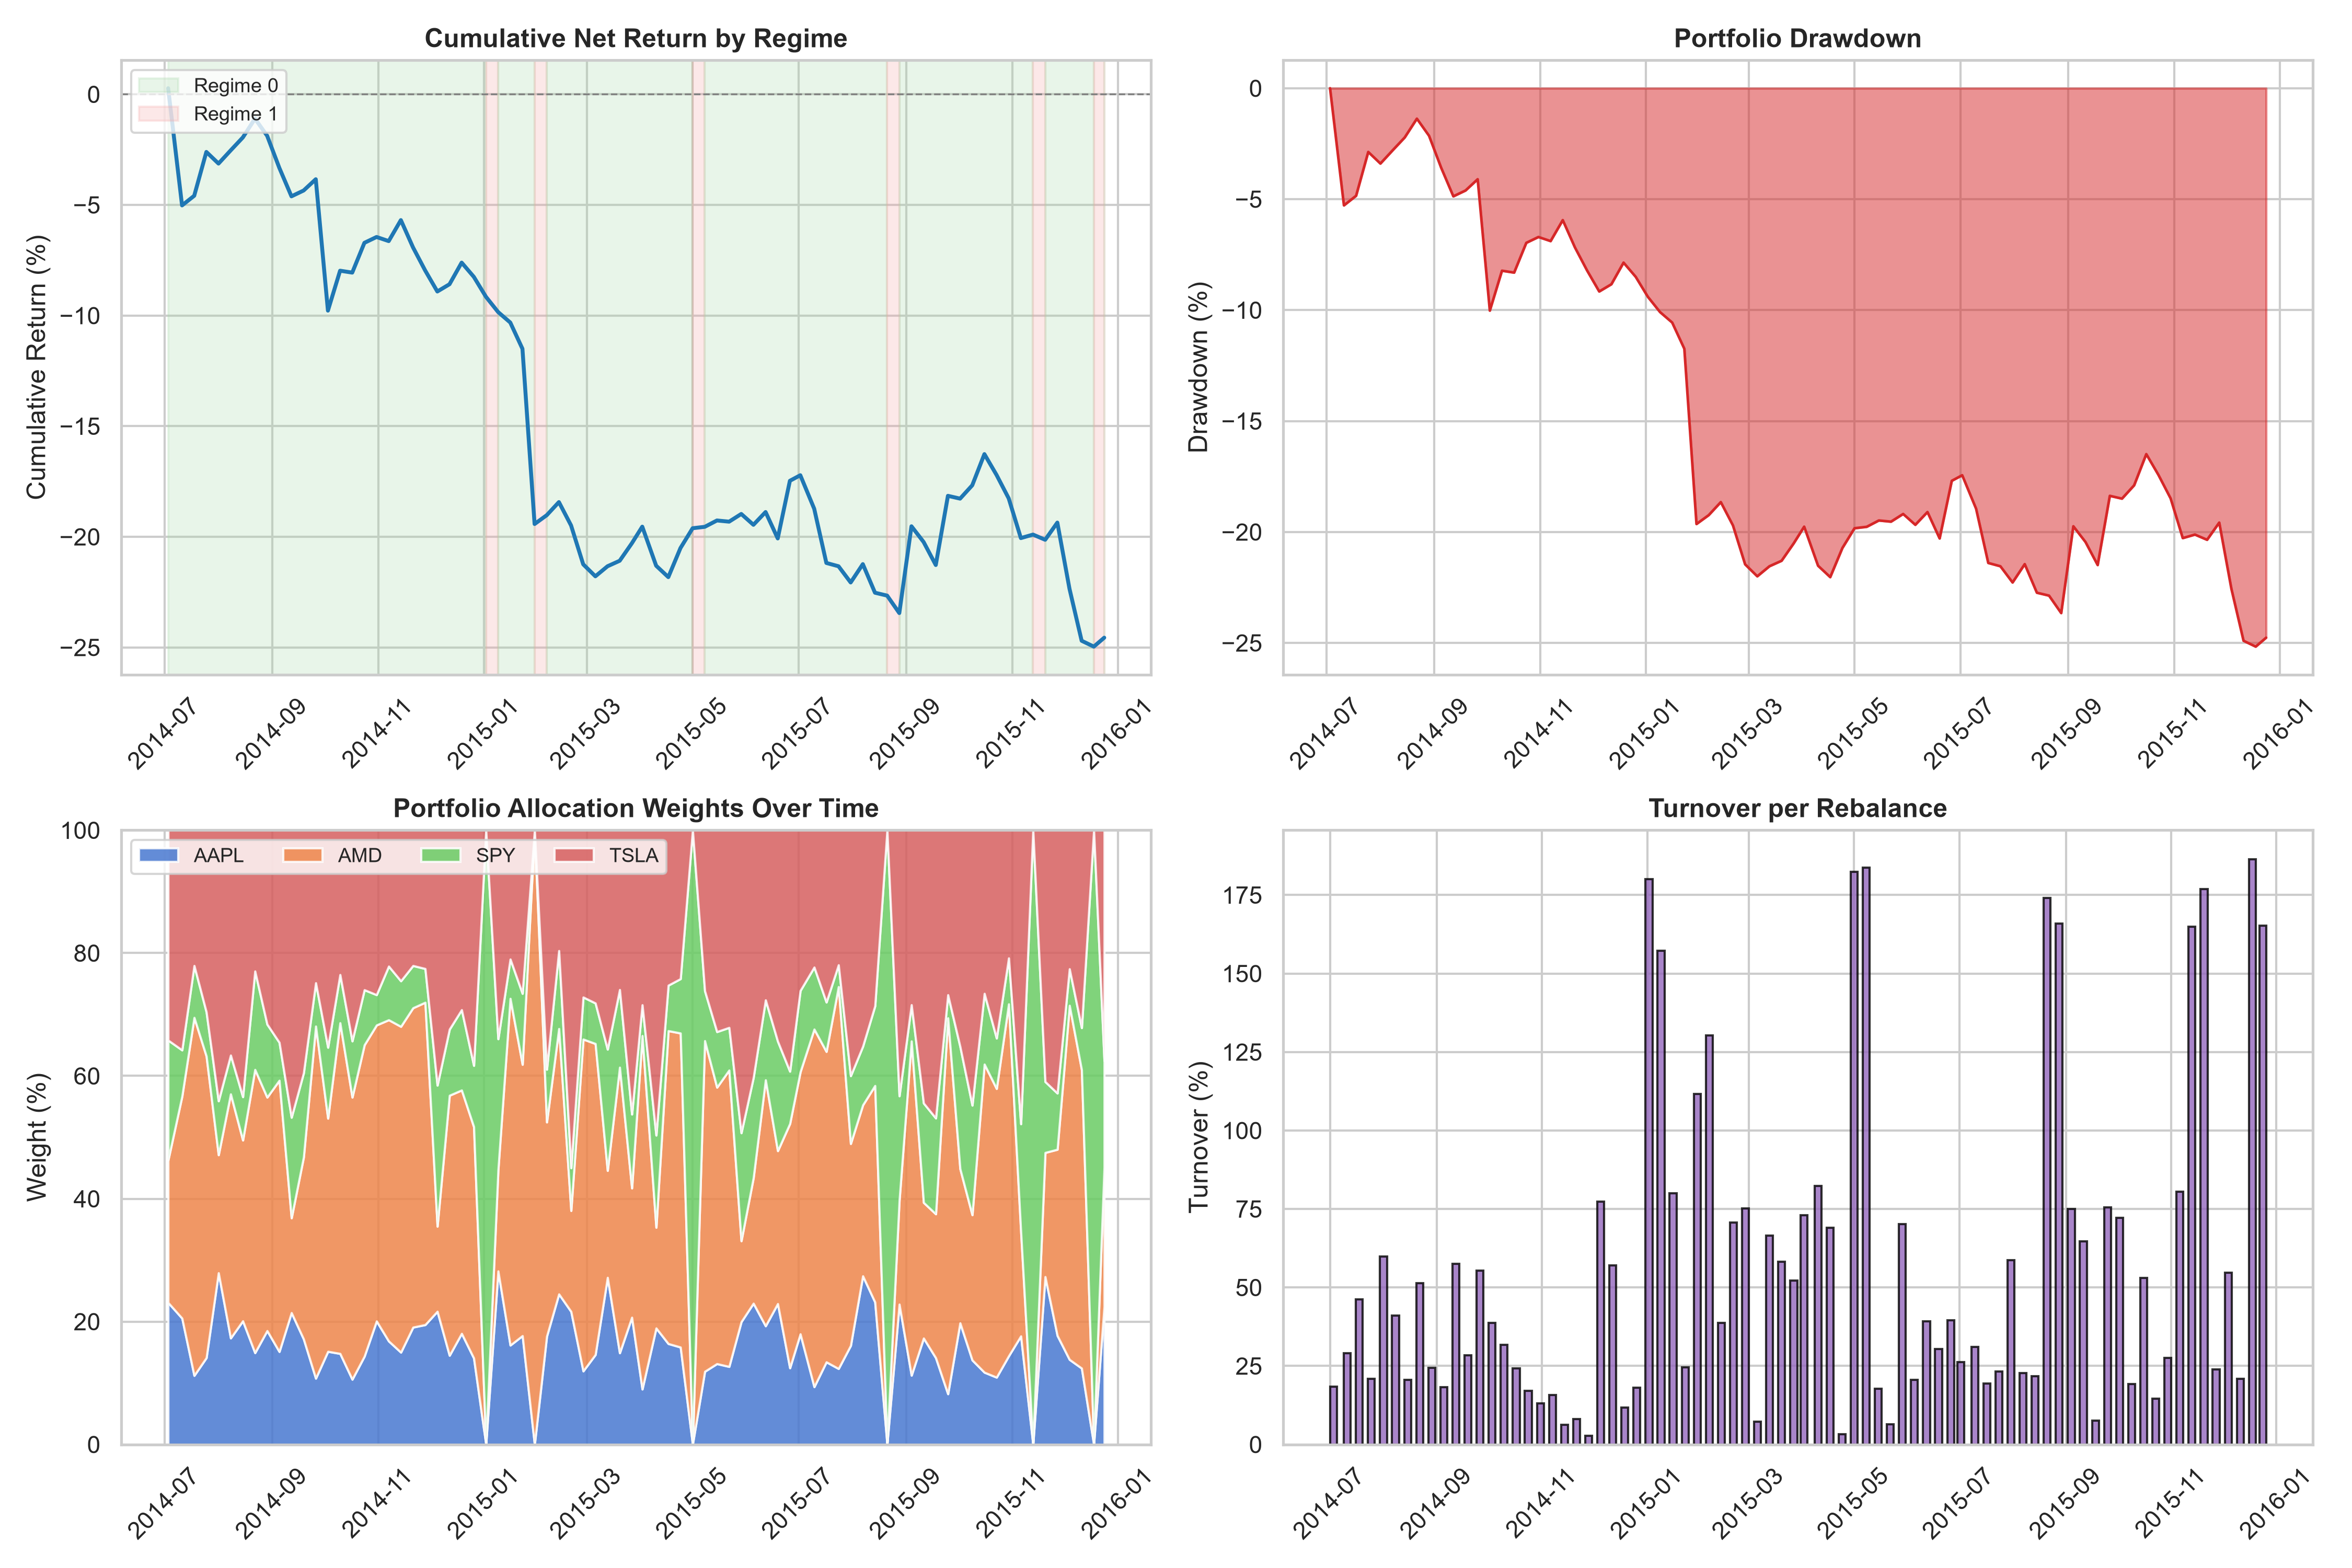
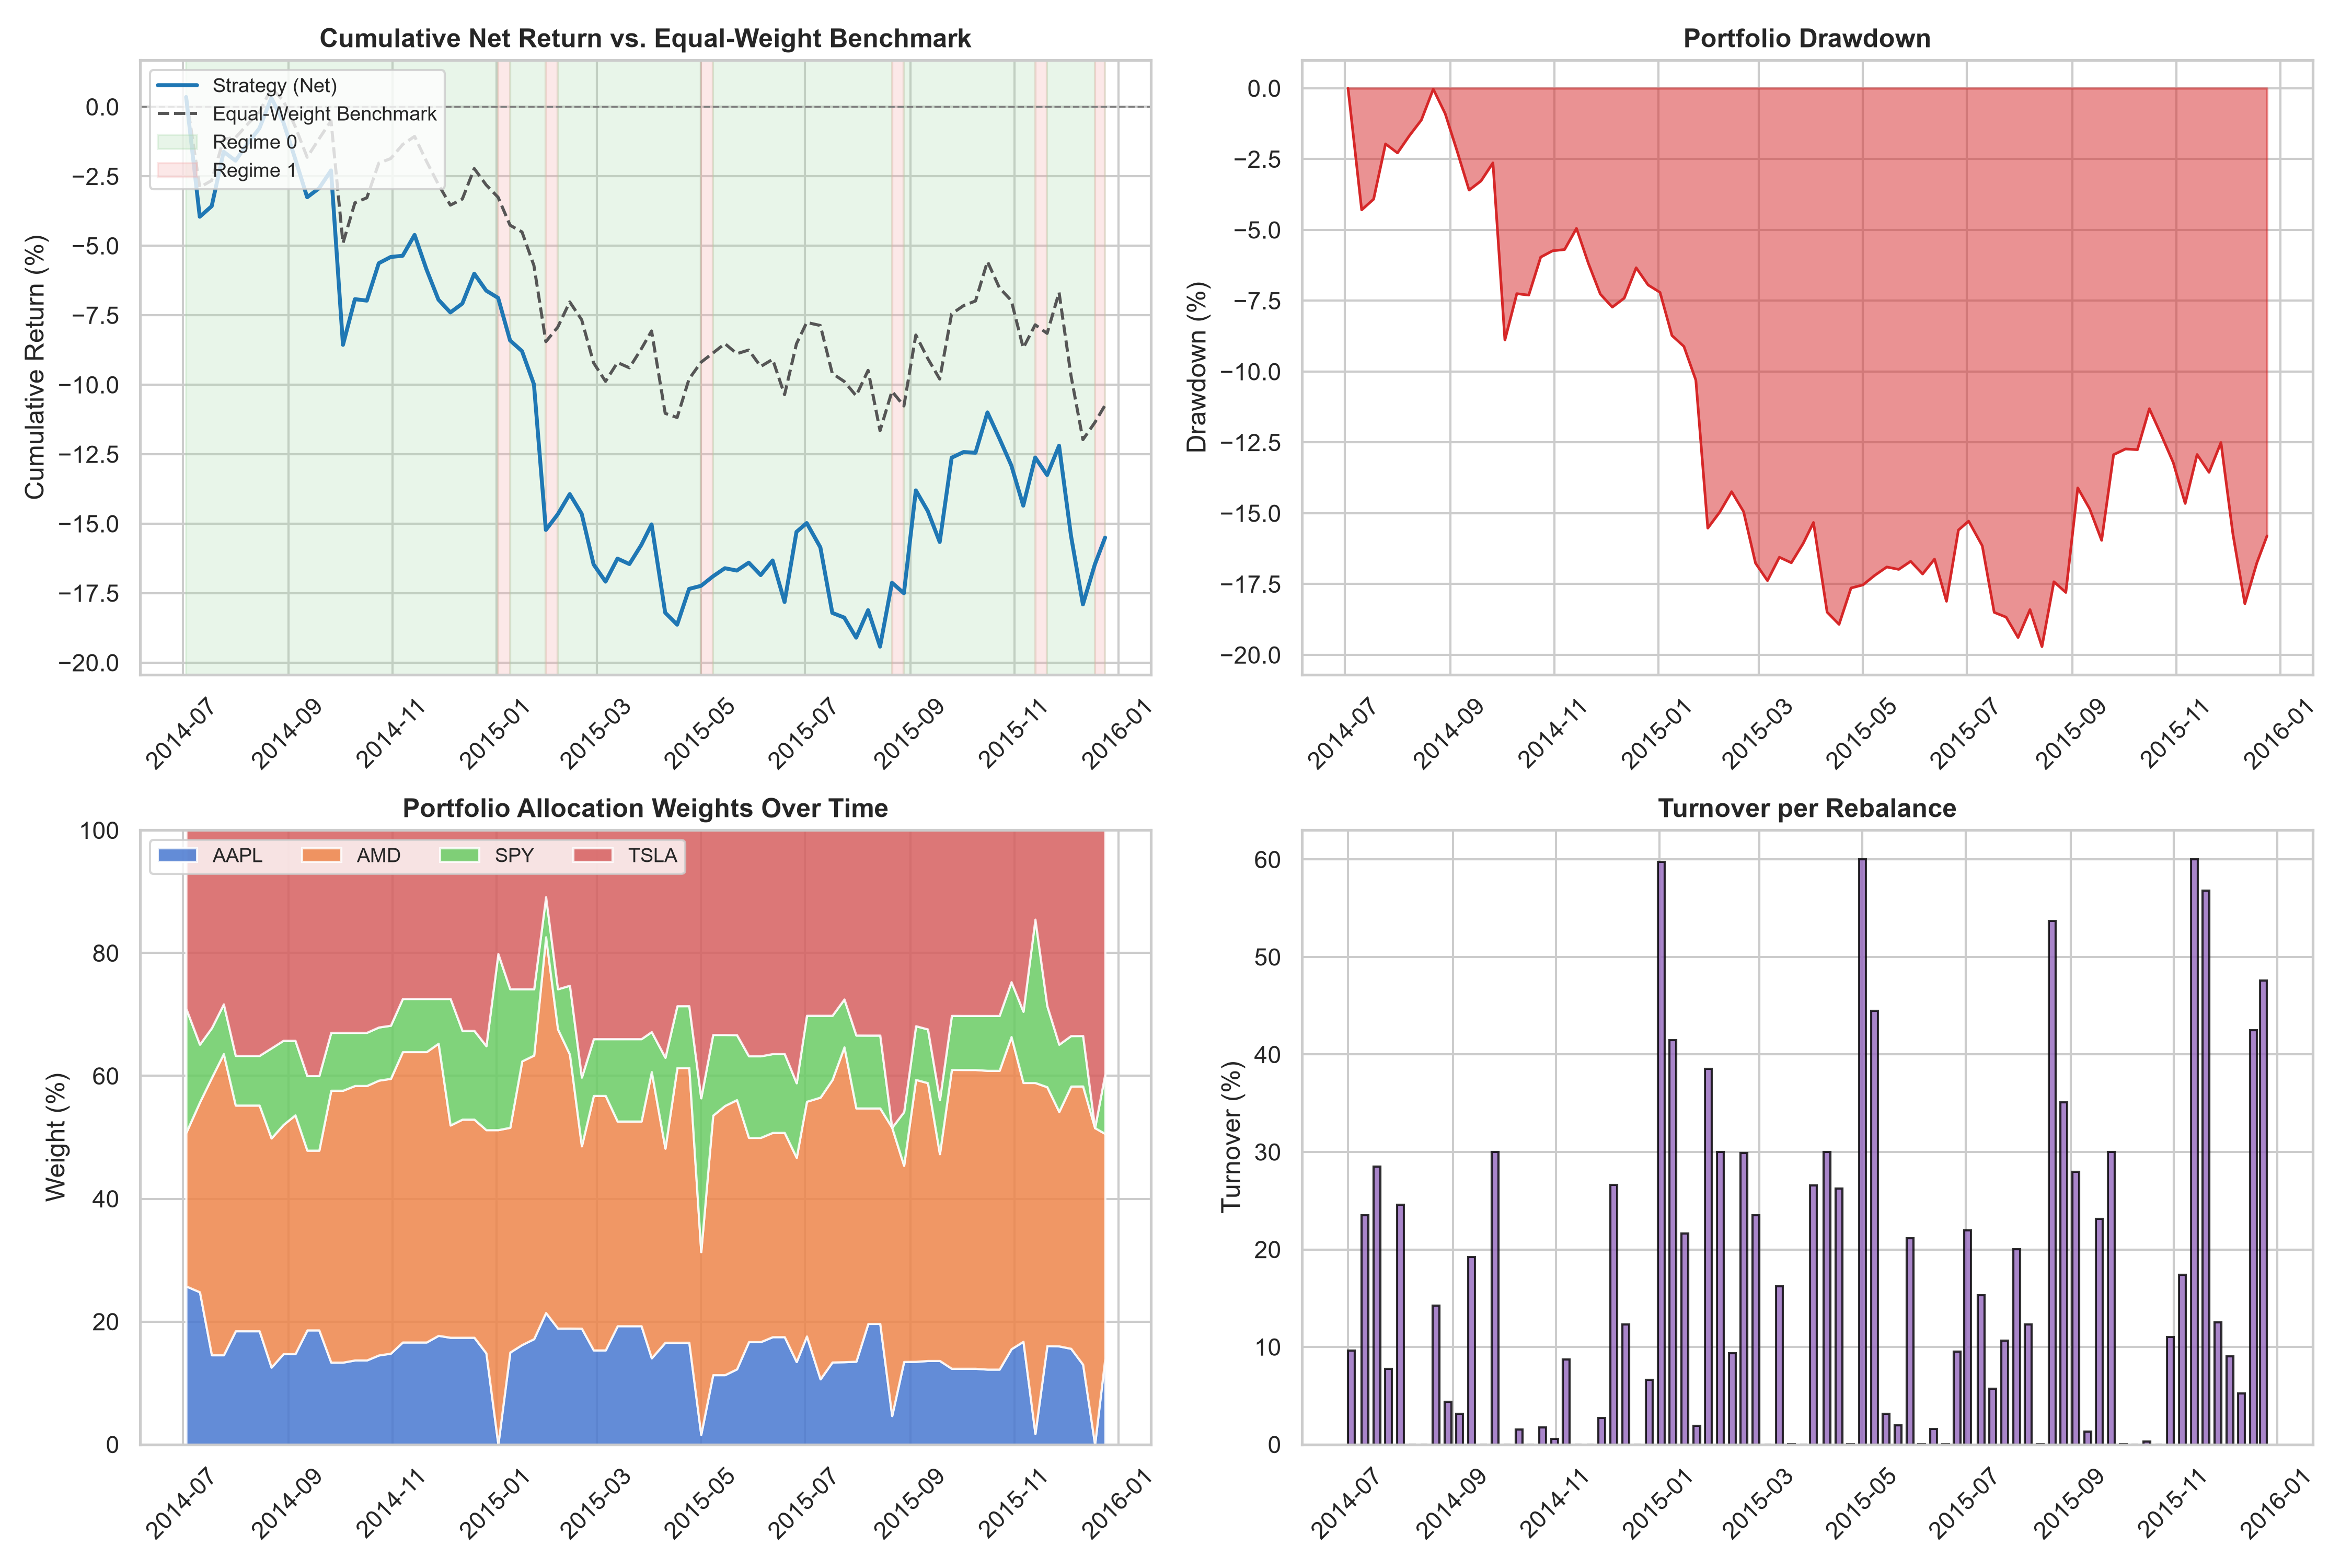
Optimization Update

diff --git a/src/backtester.py b/src/backtester.py
@@ -59,12 +59,16 @@ def plot_backtest_results(df_results, tickers, output_path):
     cum_returns = (1 + df_results['Net_Return']).cumprod() - 1
     running_max = (1 + cum_returns).cummax()
     drawdown = (1 + cum_returns) / running_max - 1
+    cum_benchmark = (1 + df_results['Benchmark_Return']).cumprod() - 1
 
     fig, axes = plt.subplots(2, 2, figsize=(15, 10))
     ax1, ax2, ax3, ax4 = axes.flatten()
 
-    # --- Panel 1: Cumulative Net Return with Regime Shading ---
-    ax1.plot(cum_returns.index, cum_returns.values * 100, color='#1f77b4', linewidth=1.8)
+    # --- Panel 1: Cumulative Net Return vs. Equal-Weight Benchmark, with Regime Shading ---
+    ax1.plot(cum_returns.index, cum_returns.values * 100, color='#1f77b4',
+              linewidth=1.8, label='Strategy (Net)', zorder=3)
+    ax1.plot(cum_benchmark.index, cum_benchmark.values * 100, color='#555555',
+              linewidth=1.4, linestyle='--', label='Equal-Weight Benchmark', zorder=2)
     ax1.axhline(0, color='grey', linewidth=0.8, linestyle='--')
 
     # Shade background by active regime (contiguous blocks)
@@ -85,7 +89,7 @@ def plot_backtest_results(df_results, tickers, output_path):
                 seg_start = dates[i]
                 seg_regime = regimes[i]
 
-    ax1.set_title("Cumulative Net Return by Regime", fontsize=12, weight='bold')
+    ax1.set_title("Cumulative Net Return vs. Equal-Weight Benchmark", fontsize=12, weight='bold')
     ax1.set_ylabel("Cumulative Return (%)")
     ax1.legend(loc='upper left', frameon=True, fontsize=9)
     ax1.xaxis.set_major_formatter(mdates.DateFormatter('%Y-%m'))
@@ -130,6 +134,14 @@ def run_rolling_backtest():
     
     # Defining target backtest assets (Aligned with the Bayesian Backtest Simulator)
     tickers = ["AAPL", "AMD", "SPY", "TSLA"]
+
+    # Turnover controls: with weak/noisy Bayesian mu estimates, an unconstrained
+    # Sharpe-maximizer can flip between concentrated corner solutions week to
+    # week. These two knobs bias the optimizer toward smoother reallocation.
+    # Set both to 0/None to fall back to the original unconstrained behavior.
+    TURNOVER_PENALTY = 0.05      # Soft L1 penalty (lambda) on |w_new - w_prev|
+    MAX_WEIGHT_CHANGE = 0.15     # Hard cap: no single asset's weight can move
+                                  # more than this per rebalance (None disables)
     
     # Load the real dataset into memory before looping, passing the target tickers dynamically
     try:
@@ -230,8 +242,14 @@ def run_rolling_backtest():
             # SAFEGUARD: Flatten expected return vector to 1D array to match optimizer matrix-dot layout
             mu_b_flat = mu_b.flatten()
             
-            # C. Optimize target portfolio allocation weights
-            new_weights = optimize_portfolio(mu_b_flat, sigma_b)
+            # C. Optimize target portfolio allocation weights, biased toward
+            #    the current allocation to curb noise-driven corner-flipping
+            new_weights = optimize_portfolio(
+                mu_b_flat, sigma_b,
+                prev_weights=current_weights,
+                turnover_penalty=TURNOVER_PENALTY,
+                max_weight_change=MAX_WEIGHT_CHANGE
+            )
             
             # D. Apply Transaction Frictions & Turnover Penalties
             turnover = np.sum(np.abs(new_weights - current_weights))
@@ -240,12 +258,20 @@ def run_rolling_backtest():
             # E. Calculate Net Portfolio Yield for this step
             raw_p_return = np.dot(new_weights, forward_returns)
             net_p_return = raw_p_return - tx_cost
-            
+
+            # F. Passive equal-weight buy-and-hold benchmark over the SAME
+            #    forward-return window, for a like-for-like comparison. No
+            #    transaction cost applied since the benchmark weights never
+            #    change (a static equal split has zero turnover by definition).
+            benchmark_weights = np.ones(len(tickers)) / len(tickers)
+            benchmark_return = np.dot(benchmark_weights, forward_returns)
+
             portfolio_records.append({
                 'Date': actual_date,
                 'Regime': predicted_regime,
                 'Raw_Return': raw_p_return,
                 'Net_Return': net_p_return,
+                'Benchmark_Return': benchmark_return,
                 'Turnover': turnover,
                 'Weights': new_weights
             })
@@ -280,13 +306,18 @@ def run_rolling_backtest():
     cum_returns = (1 + df_results['Net_Return']).cumprod() - 1
     total_return = cum_returns.iloc[-1]
     ann_sharpe = (df_results['Net_Return'].mean() / (df_results['Net_Return'].std() + 1e-8)) * np.sqrt(52)
-    
+
+    cum_benchmark = (1 + df_results['Benchmark_Return']).cumprod() - 1
+    benchmark_total_return = cum_benchmark.iloc[-1]
+    benchmark_sharpe = (df_results['Benchmark_Return'].mean() / (df_results['Benchmark_Return'].std() + 1e-8)) * np.sqrt(52)
+
     print("\n" + "="*50)
     print(f"SWING-TRADE STRATEGY PERFORMANCE REPORT ({min_data_date.year}-{max_data_date.year})")
     print("="*50)
-    print(f"Total Cumulative Return: {total_return * 100:.2f}%")
-    print(f"Annualized Sharpe Ratio: {ann_sharpe:.4f}")
-    print(f"Average Weekly Turnover: {df_results['Turnover'].mean() * 100:.2f}%")
+    print(f"{'Metric':<28}{'Strategy':>12}{'Equal-Wt Benchmark':>22}")
+    print(f"{'Total Cumulative Return':<28}{total_return*100:>11.2f}%{benchmark_total_return*100:>21.2f}%")
+    print(f"{'Annualized Sharpe Ratio':<28}{ann_sharpe:>12.4f}{benchmark_sharpe:>22.4f}")
+    print(f"{'Average Weekly Turnover':<28}{df_results['Turnover'].mean()*100:>11.2f}%{'—':>22}")
     print("="*50)
 
     # 4. Render diagnostic visuals summarizing the backtest run

diff --git a/src/utils.py b/src/utils.py
@@ -449,26 +449,56 @@ def generate_bayesian_inputs(idata, df_features, tickers):
     
     return mu_bayesian, sigma_bayesian
 
-def optimize_portfolio(mu_b, sigma_b):
+def optimize_portfolio(mu_b, sigma_b, prev_weights=None, turnover_penalty=0.0, max_weight_change=None):
     """
     Executes a Markowitz Mean-Variance optimization to maximize the Sharpe Ratio
     under full long-only capital investment constraints.
+
+    Optional turnover controls (both default OFF, so existing callers that
+    only pass mu_b/sigma_b keep their original behavior):
+
+    - prev_weights: the portfolio's current allocation. Required for either
+      of the two controls below to take effect.
+    - turnover_penalty: a soft L1 penalty (lambda) subtracted from the
+      Sharpe objective, proportional to sum(|w_new - prev_weights|). Larger
+      values bias the optimizer toward staying closer to the current
+      allocation when expected-return estimates are noisy/near-zero,
+      instead of chasing the "least-bad" corner every period.
+    - max_weight_change: an optional hard cap (e.g. 0.15) on how much any
+      single asset's weight can move per rebalance. Prevents the
+      100%-into-one-asset flip that noisy, near-zero mu estimates can
+      otherwise trigger.
     """
     n_assets = len(mu_b)
-    initial_weights = np.ones(n_assets) / n_assets
+    initial_weights = np.array(prev_weights) if prev_weights is not None else np.ones(n_assets) / n_assets
+
     bounds = tuple((0.0, 1.0) for _ in range(n_assets))  # Long-only constraint
-    
+    if prev_weights is not None and max_weight_change is not None:
+        bounds = tuple(
+            (max(0.0, prev_weights[i] - max_weight_change),
+             min(1.0, prev_weights[i] + max_weight_change))
+            for i in range(n_assets)
+        )
+
     # Constraint equation: Sum of allocations must equal 100%
     constraints = ({'type': 'eq', 'fun': lambda w: np.sum(w) - 1.0})
-    
-    # Objective: Minimize Negative Sharpe Ratio (assumes zero risk-free rate)
+
+    # Objective: Minimize Negative Sharpe Ratio (assumes zero risk-free rate),
+    # optionally penalized for deviating from the prior allocation.
     def negative_sharpe(weights):
         port_return = np.dot(weights, mu_b)
         port_volatility = np.sqrt(np.dot(weights.T, np.dot(sigma_b, weights)))
         if port_volatility < 1e-8:
-            return 0.0
-        return - (port_return / port_volatility)
-        
+            sharpe = 0.0
+        else:
+            sharpe = port_return / port_volatility
+
+        objective = -sharpe
+        if prev_weights is not None and turnover_penalty > 0.0:
+            turnover = np.sum(np.abs(weights - prev_weights))
+            objective += turnover_penalty * turnover
+        return objective
+
     result = minimize(
         negative_sharpe, 
         initial_weights, 